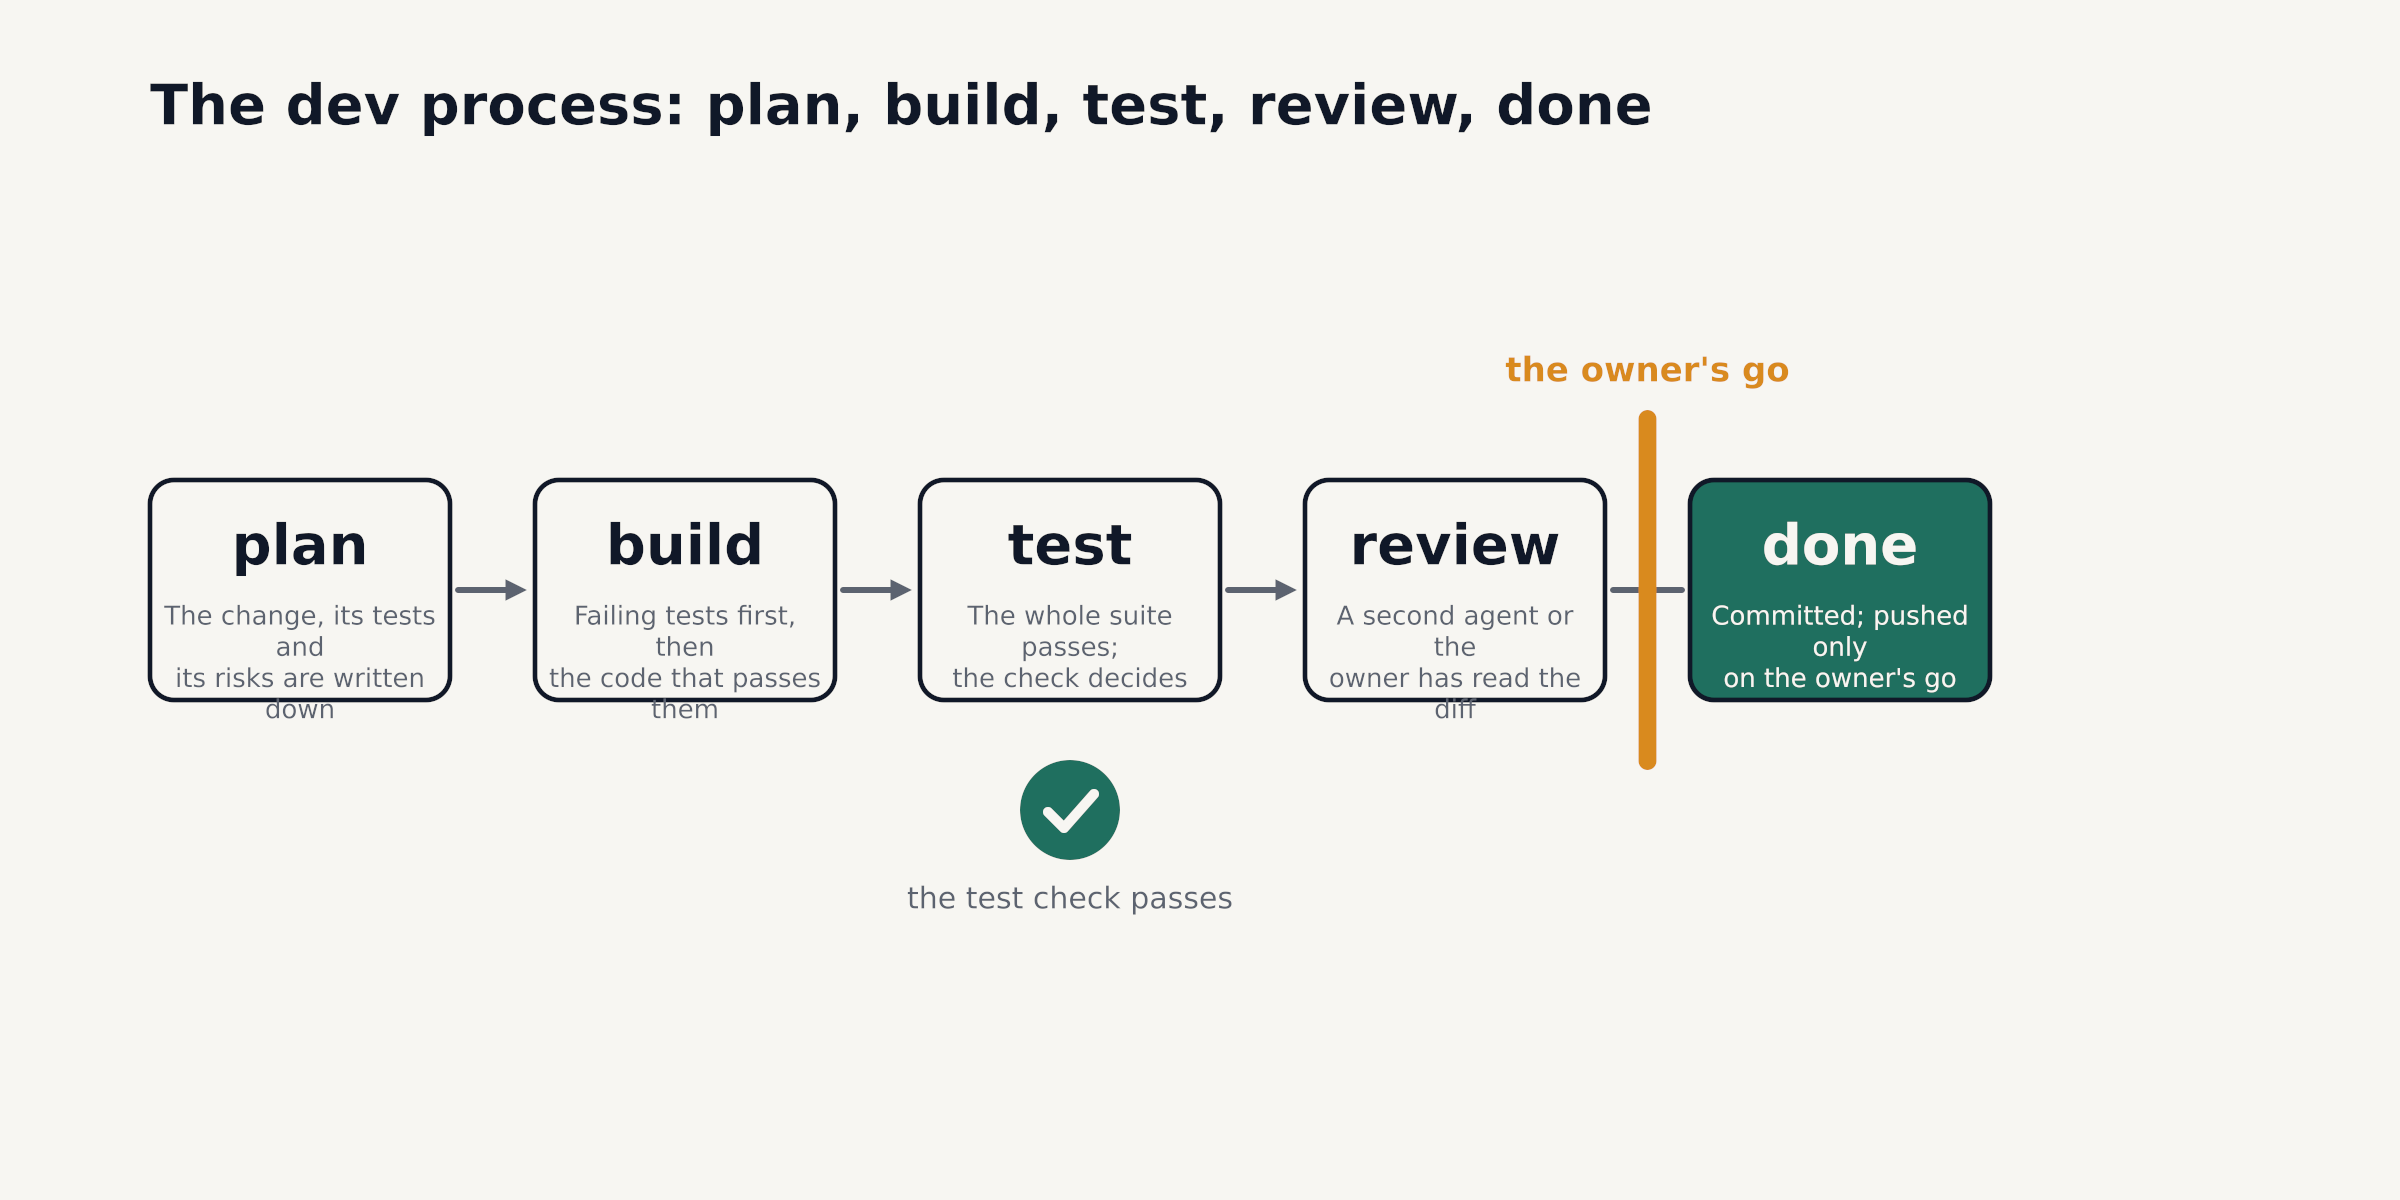
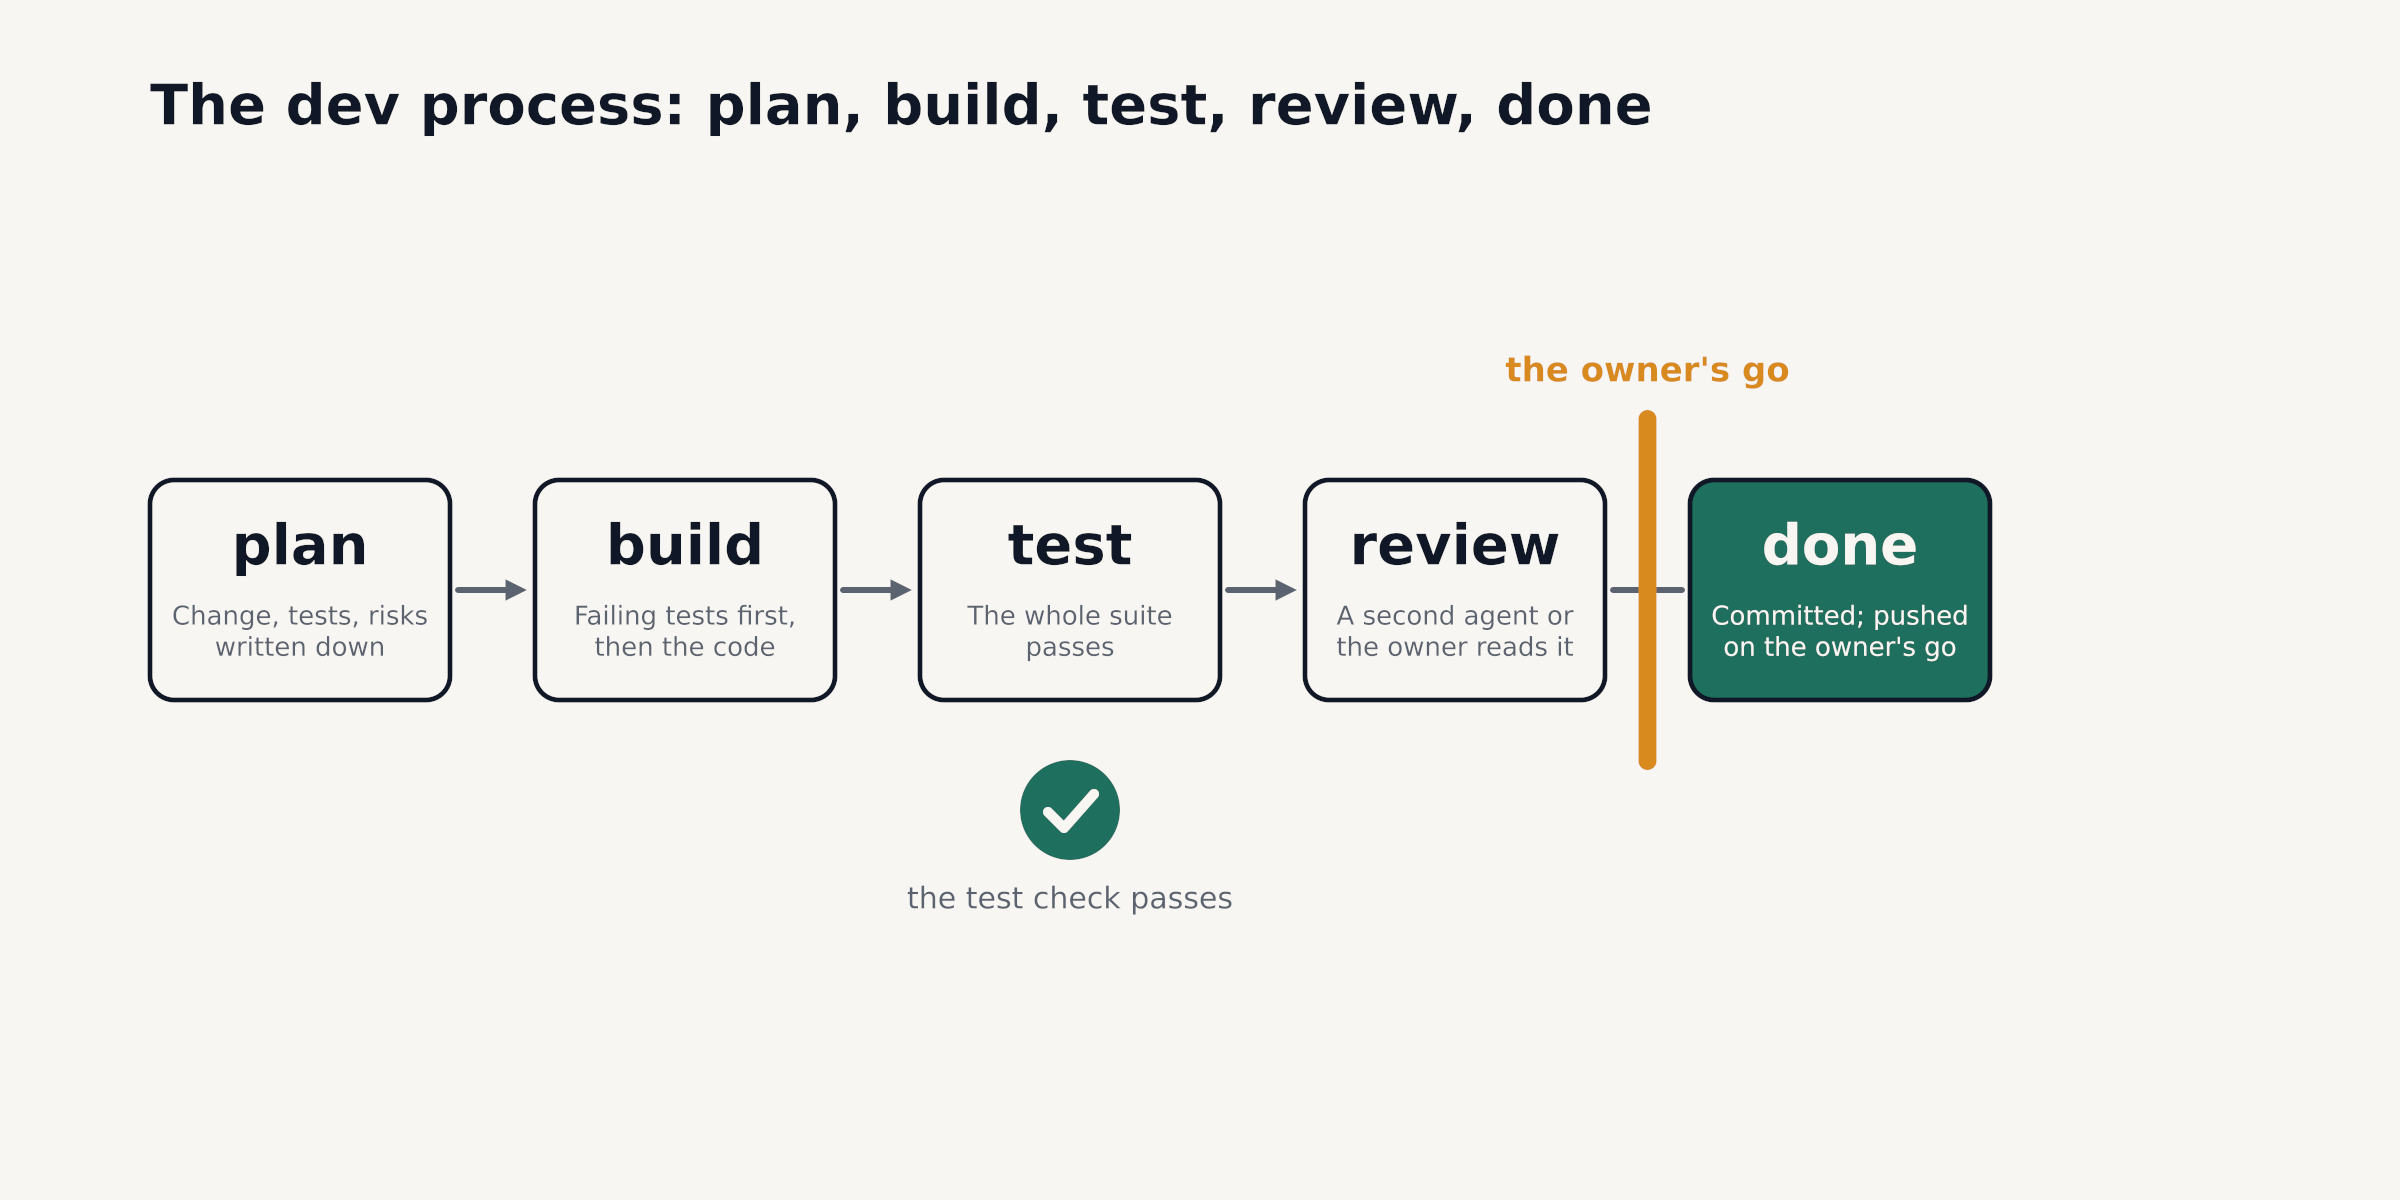
fix(govern-brand): shorter figure captions that fit their boxes; BRAND.md says the owner's go, not a gate

diff --git a/tools/govern/brand/BRAND.md b/tools/govern/brand/BRAND.md
@@ -6,7 +6,7 @@ The brand images are scene-render scenes (`scenes/*.scene.xml`) rendered to PNG 
 
 ## The mark
 
-A rounded ink tile holds one lane: five stages joined by a line. The first four stages are paper-white. An amber gate, a vertical bar taller than the stages, stands before the fifth stage, which is green. It reads as the dev process in the manual: work moves through stages, and the last step is not reached until the owner opens the gate. The mark has no text and stays legible at 32 px.
+A rounded ink tile holds one lane: five stages joined by a line. The first four stages are paper-white. An amber gate, a vertical bar taller than the stages, stands before the fifth stage, which is green. It reads as the dev process in the manual: work moves through stages, and the last step, the push, waits for the owner's go. The mark has no text and stays legible at 32 px.
 
 ## Palette
 
@@ -35,7 +35,7 @@ All text is an engine text layer set in DejaVu Sans (bold for the word "govern" 
 | `hero.png` | 2400×1200 | home page hero: four lanes moving through five stages, a gate, a desk watching |
 | `social-card.png` | 1200×630 | link previews: wordmark and "agent work, in lanes, with gates" |
 | `press-banner.png` | 2400×600 | press releases: wordmark and "press release" |
-| `process-stages.png` | 2400×1200 | figure of the dev process: plan, build, test, review, done, with the owner's gate before done |
+| `process-stages.png` | 2400×1200 | figure of the dev process: plan, build, test, review, done, with the owner's go before done |
 
 ## Re-render
 
